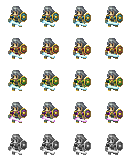
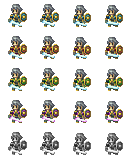
Fixed hero-m

diff --git a/splitter.py b/splitter.py
@@ -179,6 +179,10 @@ HEAD_PARAMS = {
         'offset': [(1,2),(1,1),(1,1),(1,0),],
         'size': 'large',
         },
+    'hero-m': {
+        'offset': [(0,2),(0,2),(0,1),(0,1),],
+        'size': 'large',
+        },
     'wyvern-lord': {
         'offset': [(-2,0),(-2,-2),(-2,-1),(-2,-1),],
         'size': 'small',

diff --git a/test.py b/test.py
@@ -6,8 +6,8 @@ import splitter, glob, os
 # (https://www.spriters-resource.com/3ds/fireemblemfates/)
 
 FILE_STRING = 'inputs/{}.png'
-UNIT_NAME = 'selena'
-CLASS_NAME = 'hero-f'
+UNIT_NAME = 'laslow'
+CLASS_NAME = 'hero-m'
 
 splitter.main(
     FILE_STRING.format(UNIT_NAME),
